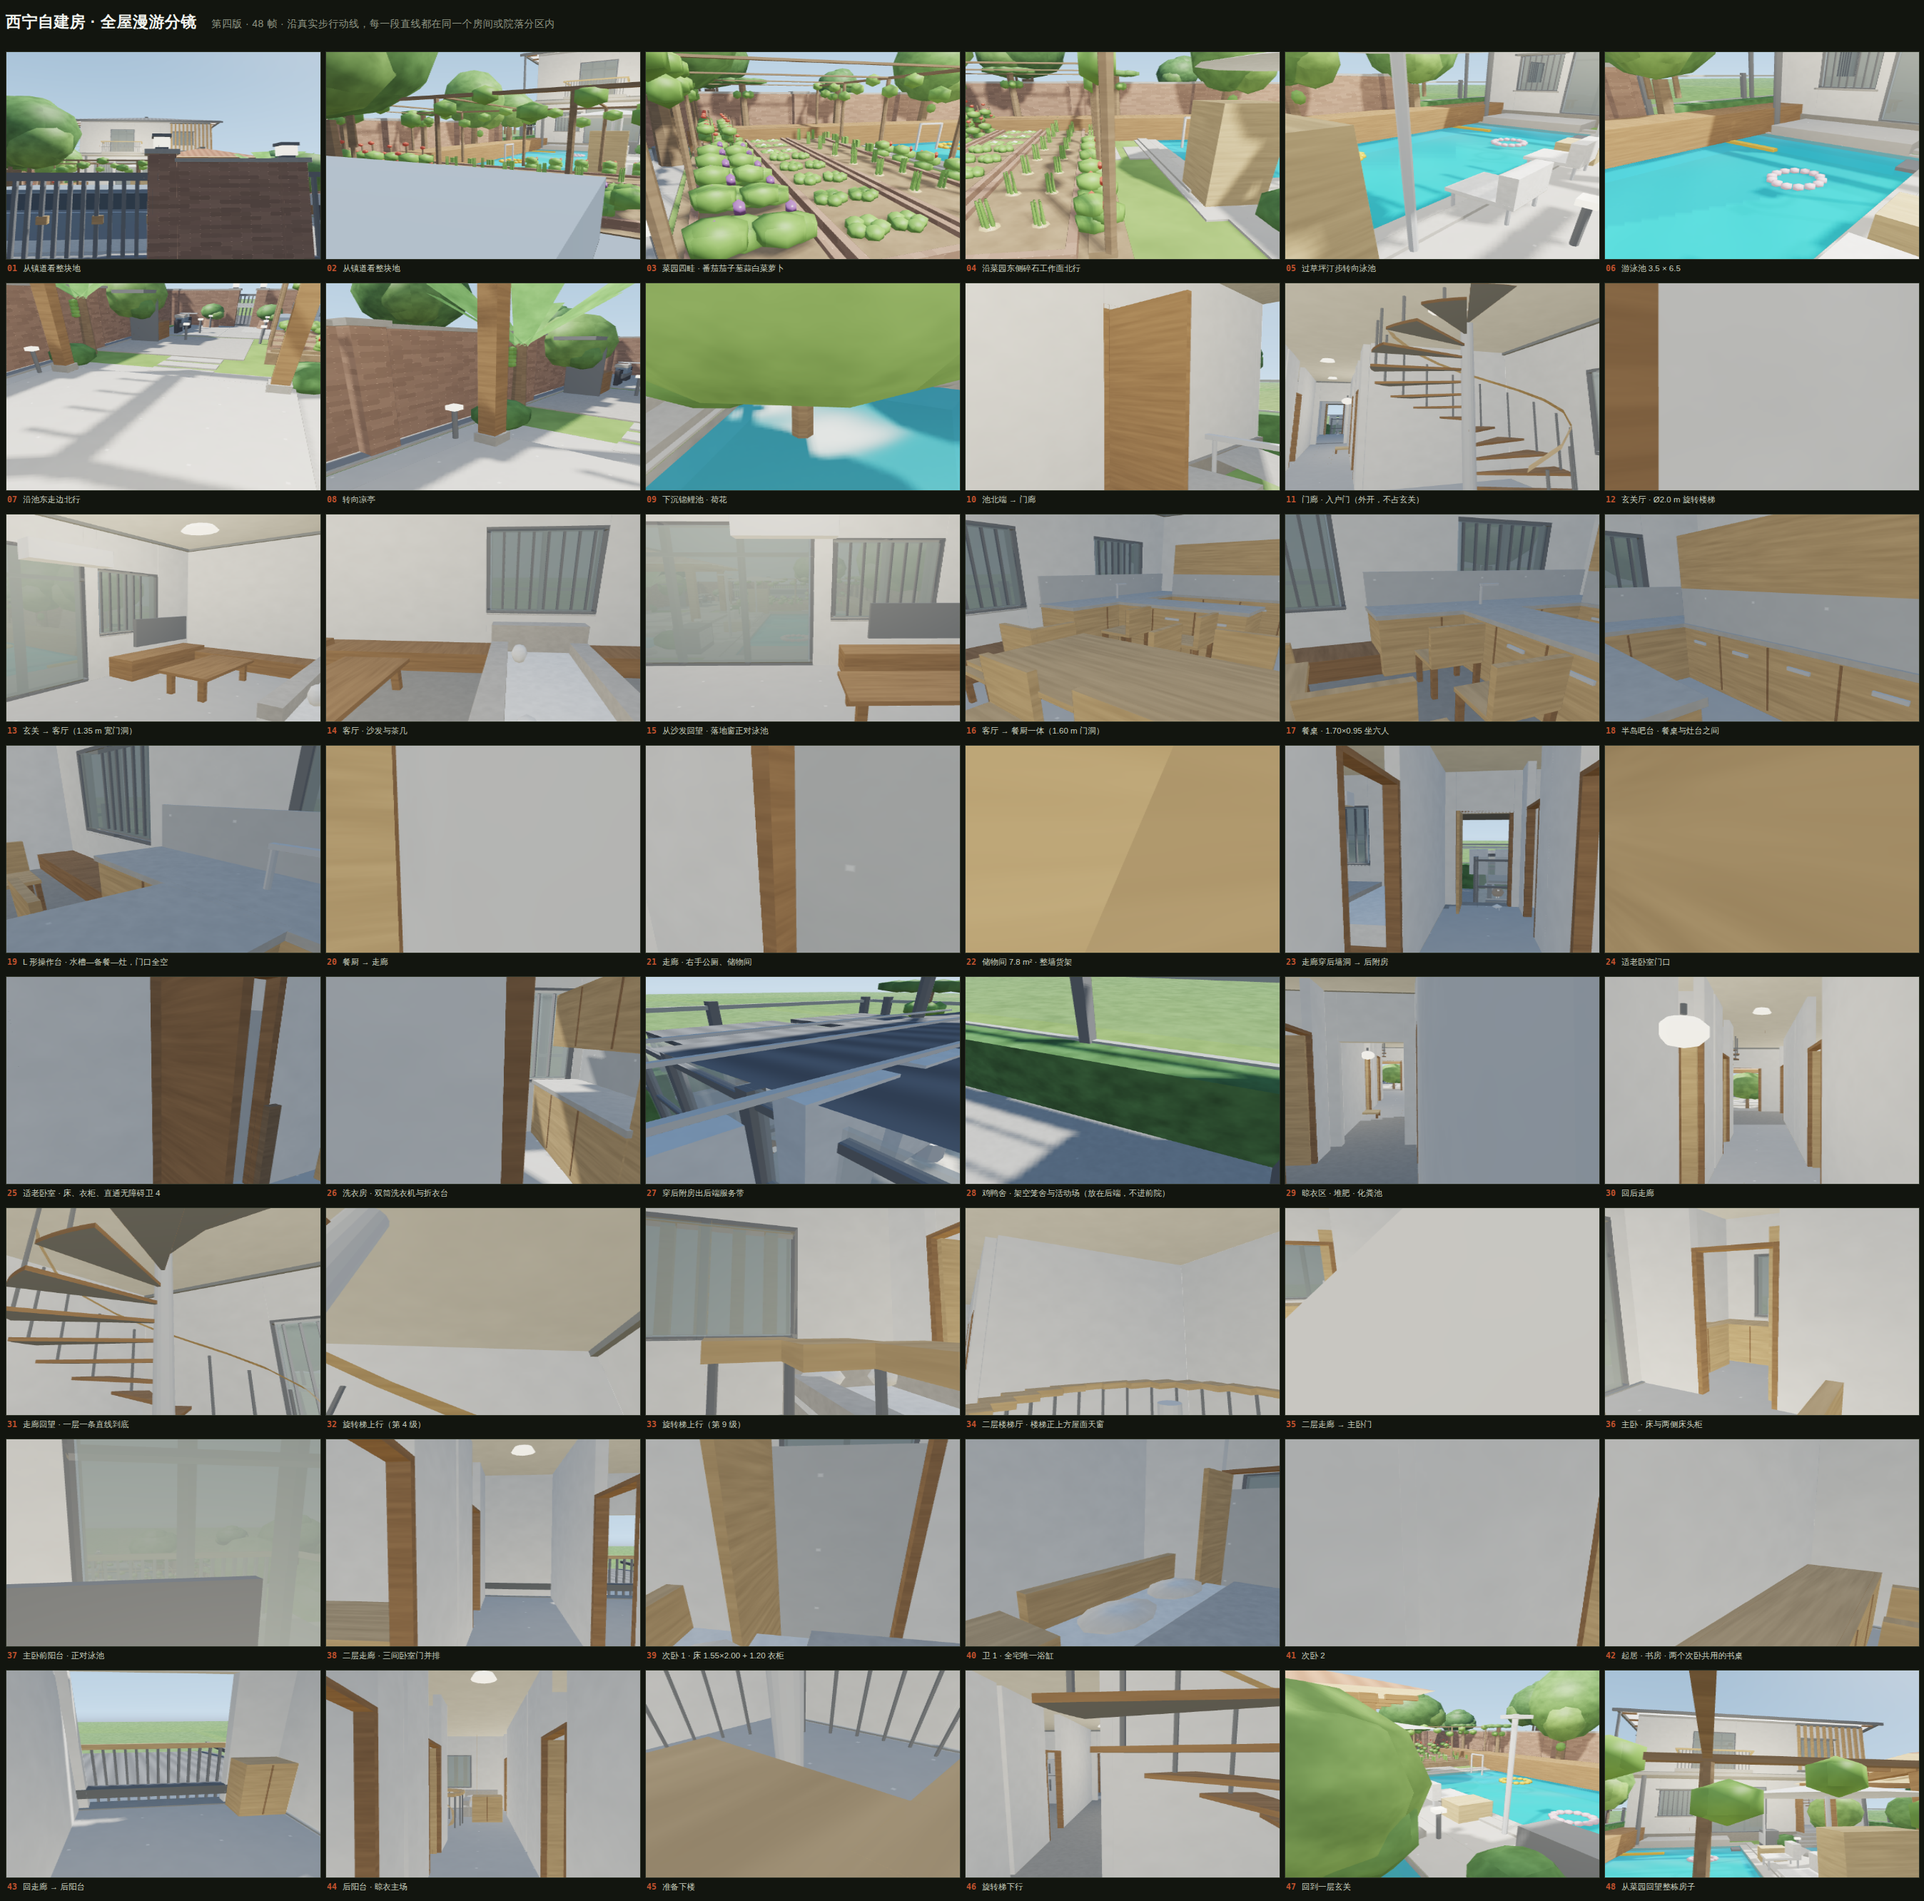
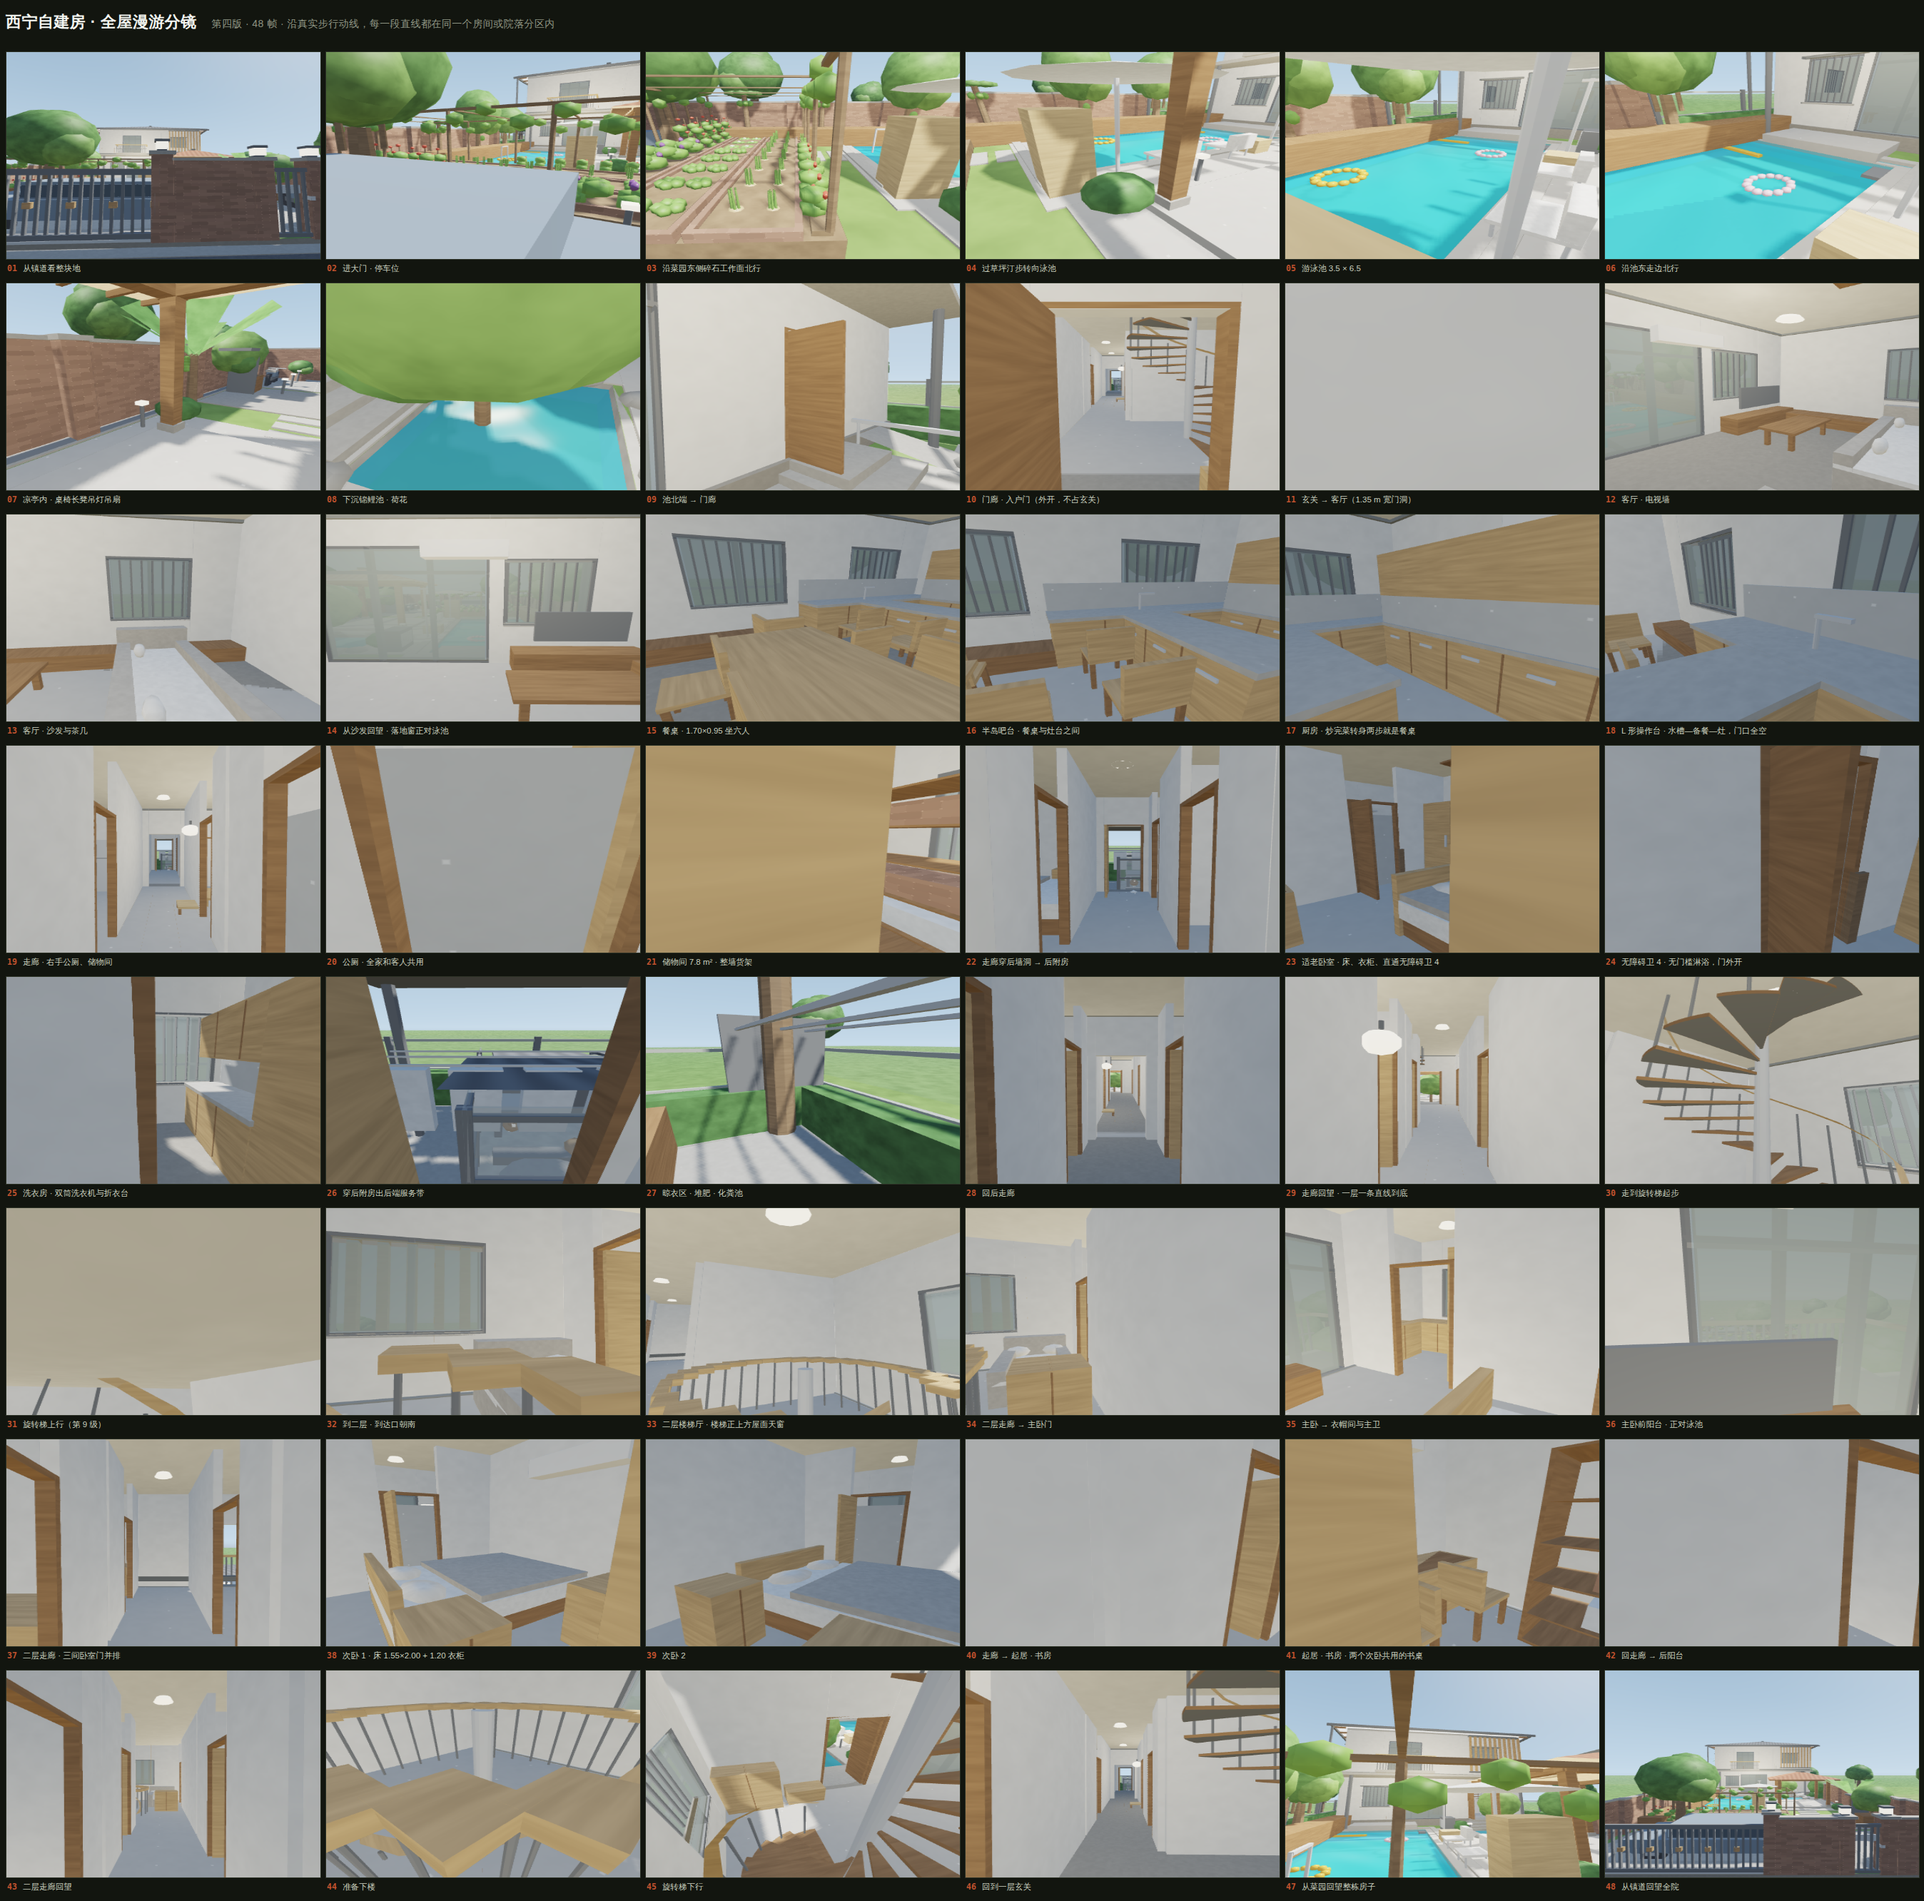
docs(tay-ninh-house): wide-angle interior camera and waypoint-sampled storyboard
Interior views used a 60 degree lens, which in a 3.4 m wide room standing
near a wall fills most of the frame with that wall. Interior photography
uses 16-20 mm for exactly this reason; the camera is now 74 degrees for
walkthrough and preset poses. Outdoor orbit views keep 46 degrees.

The storyboard sampled frames at even time intervals, which mostly caught
transition poses between waypoints - the camera halfway through a doorway
facing a wall. It now samples at the waypoints themselves, which are the
poses the route was composed around.

Also fixes the entry-to-living-room waypoint, which stood 0.20 m from the
wall beside the door opening rather than in line with it, and so looked
at solid wall.

Claude-Session: https://claude.ai/code/session_0162GnKwzCPCoZuJhiC5aHXu

diff --git a/docs/tay-ninh-house/index.html b/docs/tay-ninh-house/index.html
@@ -3409,7 +3409,9 @@ const TOUR=(function(){
  {p:[5.00,13.90,1.74], l:[6.60,15.30,1.65], d:2.4, n:'池北端 → 门廊'},
  {p:PT('f1','门廊',0.72,0.10),   l:PT('f1','门廊',0.72,1.60,1.45), d:2.2, n:'门廊 · 入户门（外开，不占玄关）'},
  {p:PT('f1','玄关厅',0.18,0.16), l:[X0+7.40,Y0+2.35,F+2.40],      d:2.4, n:'玄关厅 · Ø2.0 m 旋转楼梯'},
- {p:PT('f1','玄关厅',0.06,0.62), l:PT('f1','客厅',0.72,0.55,1.35), d:2.2, n:'玄关 → 客厅（1.35 m 宽门洞）'},
+ /* 站位必须对准门洞：门洞在玄关厅西墙 y 0.60–1.95，取 y 中点对应的比例 0.33。
+    第一次写成 0.62，相机正对着门洞旁边那堵实墙，拍出来是一格白墙。 */
+ {p:PT('f1','玄关厅',0.26,0.33), l:PT('f1','客厅',0.55,0.42,1.30), d:2.2, n:'玄关 → 客厅（1.35 m 宽门洞）'},
  {p:PT('f1','客厅',0.86,0.72),   l:PT('f1','客厅',0.24,0.10,1.25), d:2.4, n:'客厅 · 电视墙'},
  {p:PT('f1','客厅',0.62,0.60),   l:PT('f1','客厅',0.24,0.68,1.20), d:2.4, n:'客厅 · 沙发与茶几'},
  {p:PT('f1','客厅',0.45,0.72),   l:[3.20,10.50,0.60],              d:2.6, n:'从沙发回望 · 落地窗正对泳池'},
@@ -3520,7 +3522,9 @@ function render(){
   const S=solar(DATES[dateIdx].d, hour);
   const Lg=lighting(S.alt);
   const eye=camEye(), at=camAt();
-  const proj=M4.persp((tour!==null||cam.pose)?60*Math.PI/180:46*Math.PI/180, W/Hh, 0.05, 320);
+  /* 室内机位用 74° 广角（≈ 全画幅 20 mm）。房间只有 3.4 m 宽，用常规 50 mm 视角
+     站在墙边拍出来大半张都是墙——真正拍室内的人用的就是 16–20 mm。室外仍用 46°。 */
+  const proj=M4.persp((tour!==null||cam.pose)?74*Math.PI/180:46*Math.PI/180, W/Hh, 0.05, 320);
   const view=M4.look(eye, at, [0,0,1]);
   const VP=M4.mul(proj,view);
 

diff --git a/docs/tay-ninh-house/viewer.js b/docs/tay-ninh-house/viewer.js
@@ -1733,7 +1733,9 @@ const TOUR=(function(){
  {p:[5.00,13.90,1.74], l:[6.60,15.30,1.65], d:2.4, n:'池北端 → 门廊'},
  {p:PT('f1','门廊',0.72,0.10),   l:PT('f1','门廊',0.72,1.60,1.45), d:2.2, n:'门廊 · 入户门（外开，不占玄关）'},
  {p:PT('f1','玄关厅',0.18,0.16), l:[X0+7.40,Y0+2.35,F+2.40],      d:2.4, n:'玄关厅 · Ø2.0 m 旋转楼梯'},
- {p:PT('f1','玄关厅',0.06,0.62), l:PT('f1','客厅',0.72,0.55,1.35), d:2.2, n:'玄关 → 客厅（1.35 m 宽门洞）'},
+ /* 站位必须对准门洞：门洞在玄关厅西墙 y 0.60–1.95，取 y 中点对应的比例 0.33。
+    第一次写成 0.62，相机正对着门洞旁边那堵实墙，拍出来是一格白墙。 */
+ {p:PT('f1','玄关厅',0.26,0.33), l:PT('f1','客厅',0.55,0.42,1.30), d:2.2, n:'玄关 → 客厅（1.35 m 宽门洞）'},
  {p:PT('f1','客厅',0.86,0.72),   l:PT('f1','客厅',0.24,0.10,1.25), d:2.4, n:'客厅 · 电视墙'},
  {p:PT('f1','客厅',0.62,0.60),   l:PT('f1','客厅',0.24,0.68,1.20), d:2.4, n:'客厅 · 沙发与茶几'},
  {p:PT('f1','客厅',0.45,0.72),   l:[3.20,10.50,0.60],              d:2.6, n:'从沙发回望 · 落地窗正对泳池'},
@@ -1844,7 +1846,9 @@ function render(){
   const S=solar(DATES[dateIdx].d, hour);
   const Lg=lighting(S.alt);
   const eye=camEye(), at=camAt();
-  const proj=M4.persp((tour!==null||cam.pose)?60*Math.PI/180:46*Math.PI/180, W/Hh, 0.05, 320);
+  /* 室内机位用 74° 广角（≈ 全画幅 20 mm）。房间只有 3.4 m 宽，用常规 50 mm 视角
+     站在墙边拍出来大半张都是墙——真正拍室内的人用的就是 16–20 mm。室外仍用 46°。 */
+  const proj=M4.persp((tour!==null||cam.pose)?74*Math.PI/180:46*Math.PI/180, W/Hh, 0.05, 320);
   const view=M4.look(eye, at, [0,0,1]);
   const VP=M4.mul(proj,view);
 
